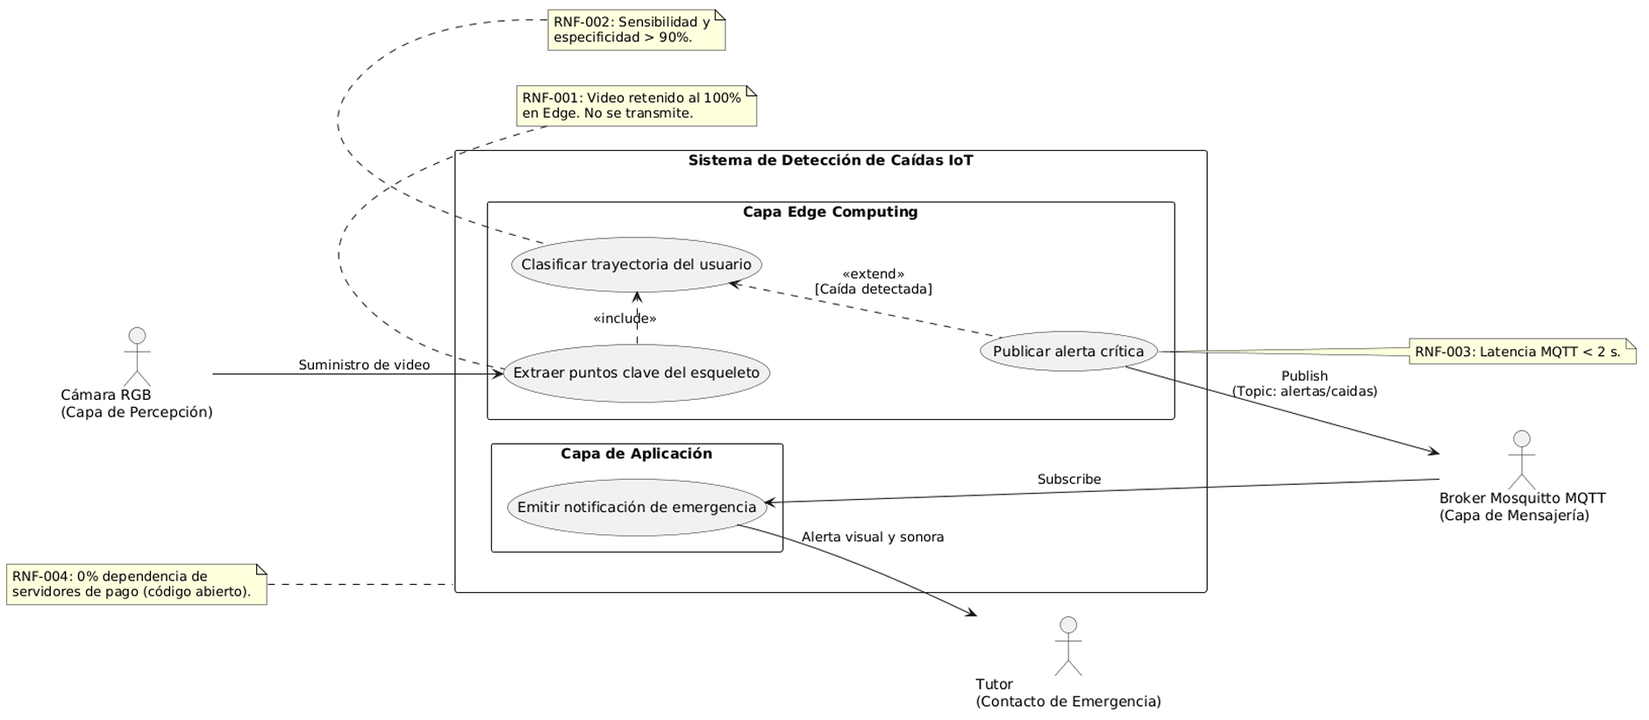
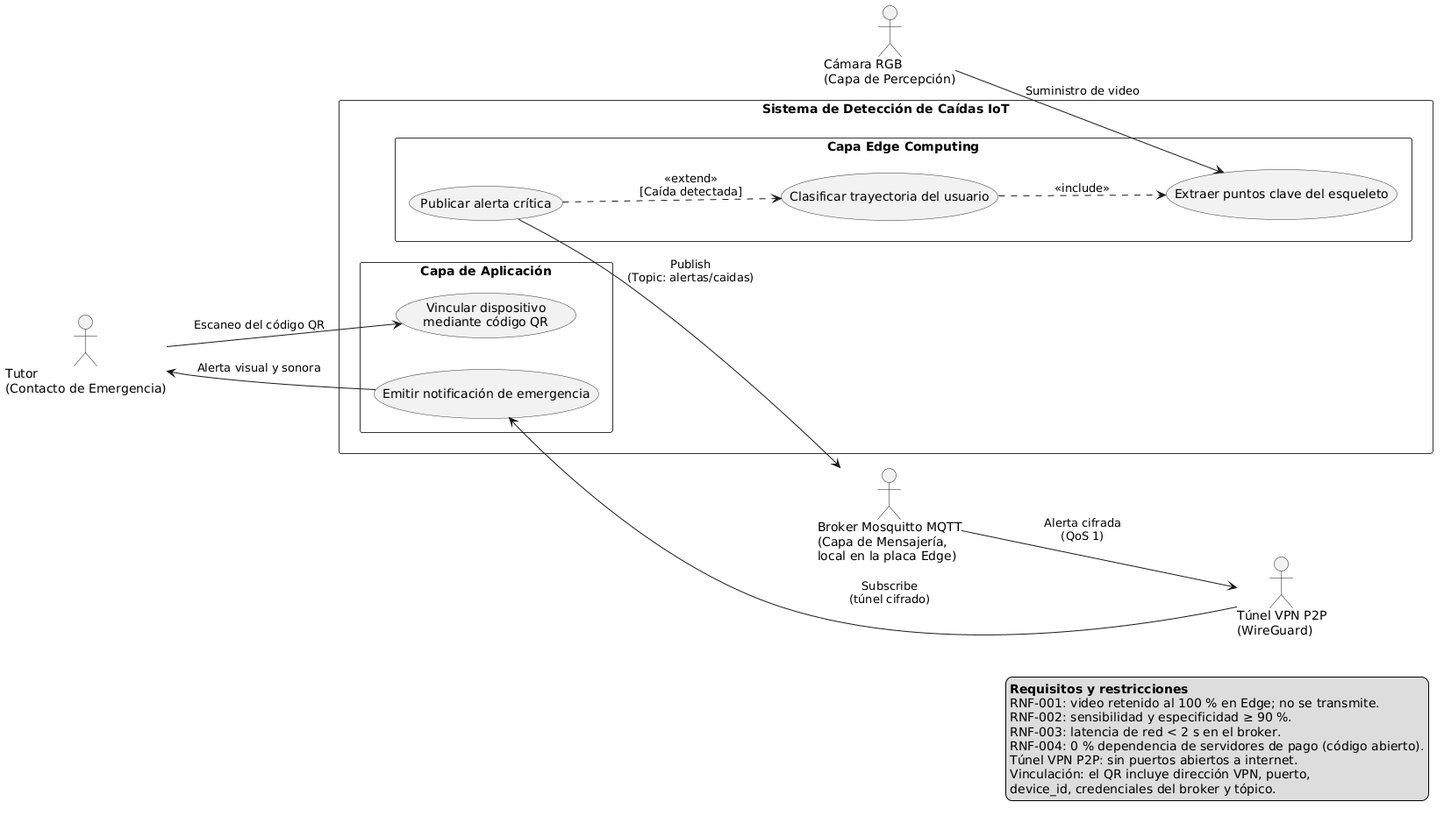
Actualiza arquitectura IoT a VPN P2P, vinculación por QR y hardware
- Sustituye la restricción de LAN por una VPN P2P basada en WireGuard
  (secciones 1.5.2 y 4.1) y actualiza el diagrama de arquitectura.
- Documenta la topología de red y el acceso remoto al broker local.
- Reemplaza el registro con correo y contraseña por la vinculación
  mediante código QR (sección 4.6.1) y actualiza los mockups.
- Elimina el redimensionamiento redundante de OpenCV (sección 4.3).
- Corrige el Cortex-A72 de la Raspberry Pi 4, el precio de 249 USD de la
  Jetson Orin Nano Super, el descarte de la Coral por compatibilidad de
  operaciones y la fuente de 27 W de la Raspberry Pi 5.
- Unifica la notación de RNF-002 (≥ 90 %) y del intervalo temporal (≤ Δt).
- Actualiza el diagrama de casos de uso y agrega la referencia de
  WireGuard; registra el servidor MCP de Figma en opencode.json.

diff --git a/main.tex b/main.tex
@@ -314,7 +314,7 @@ Desarrollar un prototipo de sistema inteligente para la detección de caídas en
   \item \textbf{Caídas simuladas.} Por razones éticas no se registrarán caídas reales de adultos mayores; el entrenamiento y la evaluación se basan en caídas simuladas por voluntarios, por lo que el desempeño en condiciones reales puede ser menor \citep{igual2013challenges}.
   \item \textbf{Sin validación clínica.} El prototipo no se probará con adultos mayores ni en entornos hospitalarios, y no sustituye a un dispositivo médico certificado.
   \item \textbf{Sin contacto automático con servicios de emergencia.} El sistema notifica únicamente al tutor; la decisión de solicitar ayuda médica queda en manos de este.
-  \item \textbf{Conectividad.} El envío de la alerta requiere que la placa y el teléfono del tutor tengan conexión de red LAN.
+  \item \textbf{Conectividad.} Cuando el tutor se encuentra fuera del domicilio, el envío de la alerta requiere que tanto la placa Edge como el teléfono mantengan conexión a internet para establecer el túnel VPN punto a punto que los une (Sección~\ref{sec:arquitectura-iot}); si el túnel no está disponible, la notificación no llega al tutor hasta que se restablezca.
   \item \textbf{Plataforma móvil.} La aplicación se desarrollará solo para Android.
   \item \textbf{Sin almacenamiento de video.} Para proteger la privacidad no se guardan imágenes, por lo que el sistema no ofrece evidencia visual del evento.
   \item \textbf{Sin integración con cámaras del tutor.} El prototipo no accede, controla ni recibe imágenes de cámaras particulares; si el tutor instala las suyas, su uso es independiente del sistema (Sección~\ref{sec:etica}).
@@ -426,7 +426,7 @@ El trabajo se guía por los principios de la Declaración Universal sobre Bioét
 
 La imagen de una persona identificable es un dato personal y adquiere el carácter de dato personal sensible cuando revela aspectos de su estado de salud, como ocurre con la imagen de una persona tendida en el suelo después de una caída \parencite{lfpdppp2025}. Para esos datos la ley exige el consentimiento expreso y por escrito de la persona titular, así como un aviso de privacidad que describa las finalidades, los datos tratados y los mecanismos para ejercer los derechos de acceso, rectificación, cancelación y oposición; además, el responsable queda sujeto al deber de confidencialidad \parencite{lfpdppp2025}.
 
-A partir de esa calificación se aplicó el principio de proporcionalidad: si la finalidad del sistema es avisar que una persona cayó, basta con transmitir el evento y sus metadatos, y no la imagen que lo originó. La carga útil descrita en el Listado~\ref{lst:json_alerta} se compone del identificador del dispositivo, el tipo de evento, la marca de tiempo, el nivel de confianza del clasificador, la postura detectada y el tiempo de inactividad; ninguno de esos campos permite reconstruir la escena. Aun así, se tratan como datos personales: circulan solo en la red local, no se comparten con terceros y la bitácora de la aplicación conserva únicamente el registro del evento, sin imágenes, para el análisis de falsas alarmas de la fase 6 de CRISP-ML(Q).
+A partir de esa calificación se aplicó el principio de proporcionalidad: si la finalidad del sistema es avisar que una persona cayó, basta con transmitir el evento y sus metadatos, y no la imagen que lo originó. La carga útil descrita en el Listado~\ref{lst:json_alerta} se compone del identificador del dispositivo, el tipo de evento, la marca de tiempo, el nivel de confianza del clasificador, la postura detectada y el tiempo de inactividad; ninguno de esos campos permite reconstruir la escena. Aun así, se tratan como datos personales: circulan solo a través del túnel cifrado que une la placa Edge con el teléfono del tutor, no se comparten con terceros y la bitácora de la aplicación conserva únicamente el registro del evento, sin imágenes, para el análisis de falsas alarmas de la fase 6 de CRISP-ML(Q).
 
 \subsection{Garantías técnicas de privacidad}
 
@@ -438,7 +438,7 @@ La aplicación móvil se concibe como un apoyo suplementario para el cuidado y n
 
 \subsection{Consentimiento informado y ética de la investigación}
 
-La instalación del sistema requiere el consentimiento informado de la persona adulta mayor y del tutor, quienes deben conocer que se colocará una cámara en la vivienda, que el video se procesa y se descarta en el dispositivo, qué datos se transmiten al teléfono y cómo revocar la autorización. La aplicación presenta ese aviso en el registro de la cuenta (Figura~\ref{fig:mockup1}) y condiciona la vinculación del dispositivo a su aceptación. En el plano de la investigación no se registran caídas reales de adultos mayores: el entrenamiento y la validación emplean conjuntos públicos y caídas simuladas por voluntarios que otorgan su consentimiento, de modo que el prototipo no se prueba con pacientes ni en entornos hospitalarios y no emite diagnósticos (Sección~\ref{sec:alcances}). A diferencia de lo que ocurre durante la operación del prototipo, estas grabaciones sí se almacenan: se conservan cifradas, solo el equipo tiene acceso a ellas, se utilizan exclusivamente para este trabajo y se eliminan al concluirlo.
+La instalación del sistema requiere el consentimiento informado de la persona adulta mayor y del tutor, quienes deben conocer que se colocará una cámara en la vivienda, que el video se procesa y se descarta en el dispositivo, qué datos se transmiten al teléfono y cómo revocar la autorización. La aplicación presenta ese aviso durante la vinculación local del dispositivo (Figura~\ref{fig:mockup1}) y condiciona el escaneo del código QR a su aceptación. En el plano de la investigación no se registran caídas reales de adultos mayores: el entrenamiento y la validación emplean conjuntos públicos y caídas simuladas por voluntarios que otorgan su consentimiento, de modo que el prototipo no se prueba con pacientes ni en entornos hospitalarios y no emite diagnósticos (Sección~\ref{sec:alcances}). A diferencia de lo que ocurre durante la operación del prototipo, estas grabaciones sí se almacenan: se conservan cifradas, solo el equipo tiene acceso a ellas, se utilizan exclusivamente para este trabajo y se eliminan al concluirlo.
 
 % ============================================================
 \chapter{Marco teórico}
@@ -482,7 +482,7 @@ Existen dos enfoques generales. Los métodos \textit{bottom-up}, como OpenPose \
 
 La Organización Mundial de la Salud define las caídas como ``sucesos involuntarios que hacen perder el equilibrio y dar con el cuerpo en el suelo o en otra superficie firme que lo detenga'' \parencite{who2021caidas}; en el mismo sentido, los informes sobre prevención en la vejez describen la caída como el hecho de quedar sobre el suelo o en un nivel inferior de manera no intencional \parencite{who2008falls}. De esa definición se desprenden cuatro elementos que cualquier sistema de detección debe respetar: la pérdida de equilibrio, el carácter involuntario del suceso, el descenso a un nivel inferior y el contacto final con una superficie que detiene el cuerpo.
 
-La definición clínica describe el fenómeno, pero no indica cómo reconocerlo a partir de una cámara. Para el sistema, una caída no es una postura sino una transición: lo observable es que la persona pasa de una posición erguida a una posición en el suelo y que permanece ahí. Por ello se adopta una definición operativa: se considera que ocurrió una caída cuando la persona pasa de la postura \textit{de pie} o \textit{sentado} a la postura \textit{caído} en un intervalo menor a $\Delta t$ y permanece en ella al menos $N$ segundos, conforme a la regla temporal que se detalla en la Sección~\ref{sec:preproc-operacion}. Ambos parámetros se ajustan con datos experimentales y distinguen una caída de un descenso gradual.
+La definición clínica describe el fenómeno, pero no indica cómo reconocerlo a partir de una cámara. Para el sistema, una caída no es una postura sino una transición: lo observable es que la persona pasa de una posición erguida a una posición en el suelo y que permanece ahí. Por ello se adopta una definición operativa: se considera que ocurrió una caída cuando la persona pasa de la postura \textit{de pie} o \textit{sentado} a la postura \textit{caído} en un intervalo $\leq \Delta t$ y permanece en ella al menos $N$ segundos, conforme a la regla temporal que se detalla en la Sección~\ref{sec:preproc-operacion}. Ambos parámetros se ajustan con datos experimentales y distinguen una caída de un descenso gradual.
 
 \paragraph{Postura caído y postura acostado.} La postura \textit{caído} corresponde al cuerpo apoyado sobre el suelo o sobre un nivel inferior, con el tronco horizontal o inclinado respecto de la vertical. Su geometría es muy parecida a la de la postura \textit{acostado}, que es voluntaria y ocurre por lo general sobre una cama o un sofá. Esa similitud es la principal fuente de falsos positivos señalada en la literatura \parencite{nahian2026ai} y la razón por la que la clasificación por cuadro se complementa con el análisis de la secuencia y con la persistencia en el tiempo, en lugar de decidir con un solo esqueleto.
 
@@ -614,7 +614,7 @@ Con base en las características de calidad del producto definidas en el estánd
 \midrule
 RNF-001 & Privacidad & El subsistema de procesamiento local deberá retener el 100\,\% del flujo de imágenes en el dispositivo Edge para salvaguardar la privacidad en el hogar unipersonal. \\
 \addlinespace
-RNF-002 & Eficacia & El modelo de clasificación deberá alcanzar un rendimiento superior al 90\,\% en métricas de sensibilidad y especificidad para minimizar el impacto de falsas alarmas. \\
+RNF-002 & Eficacia & El modelo de clasificación deberá alcanzar una sensibilidad y una especificidad $\geq 90\,\%$ para minimizar el impacto de falsas alarmas. \\
 \addlinespace
 RNF-003 & Latencia & El broker MQTT deberá entregar los mensajes de alerta con menos de 2 segundos de latencia de red para asegurar la pronta atención ante accidentes. \\
 \addlinespace
@@ -753,8 +753,8 @@ Para dar solución a los requerimientos de protección de datos personales, el s
 \begin{enumerate}
     \item \textbf{Capa de Percepción:} Integrada por un nodo sensor visual (cámara RGB) conectado de manera cableada al dispositivo local, asegurando un suministro de imágenes ininterrumpido y exento de latencias de transmisión sobre red de área local (LAN).
     \item \textbf{Capa de Cómputo Edge:} Compuesta por una Raspberry Pi 5 que actúa como placa Edge perimetral, donde reside el módulo de inferencia de YOLO26. Esta capa delimita la "zona cero" de privacidad: procesa cada tensor visual, extrae la pose y destruye de inmediato las imágenes crudas directamente en memoria, impidiendo que material visual privado abandone el dispositivo.
-    \item \textbf{Capa de Mensajería:} Representada por el servidor ligero Mosquitto MQTT \parencite{mqtt2026estandar}. Esta capa aísla la carga pesada (la imagen) de la carga liviana (el metadato de alerta) y rutea los mensajes JSON hacia LAN de forma instantánea tras clasificar exitosamente un riesgo de caída.
-    \item \textbf{Capa de Aplicación:} Compuesta por un terminal móvil inteligente dotado de la aplicación nativa en Android \parencite{uv2026desarrollo}, el cual consume remotamente (bajo redes de área amplia o LAN) el tópico MQTT, habilitando al usuario final en tiempo real.
+    \item \textbf{Capa de Mensajería:} Representada por el servidor ligero Mosquitto MQTT \parencite{mqtt2026estandar}, que se ejecuta en la propia placa Edge. Esta capa aísla la carga pesada (la imagen) de la carga liviana (el metadato de alerta) y rutea los mensajes JSON hacia el túnel VPN punto a punto de forma instantánea tras clasificar exitosamente un riesgo de caída.
+    \item \textbf{Capa de Aplicación:} Compuesta por un terminal móvil inteligente dotado de la aplicación nativa en Android \parencite{uv2026desarrollo}, el cual se suscribe al tópico MQTT a través del túnel VPN punto a punto, sin importar si el tutor se encuentra dentro o fuera del domicilio, habilitando al usuario final en tiempo real.
 \end{enumerate}
 \begin{figure}[H]
 \centering
@@ -764,6 +764,7 @@ Para dar solución a los requerimientos de protección de datos personales, el s
     percep/.style={rectangle, draw=black, thick, rounded corners=3pt, minimum width=3.6cm, minimum height=1.2cm, align=center, fill=blue!10},
     edgebox/.style={rectangle, draw=black, thick, rounded corners=3pt, minimum width=3.6cm, minimum height=1.2cm, align=center, fill=teal!10},
     broker/.style={ellipse, draw=black, thick, minimum width=4.8cm, minimum height=1.5cm, align=center, fill=gray!15},
+    vpnbox/.style={rectangle, draw=black, thick, rounded corners=3pt, minimum width=4.4cm, minimum height=1.1cm, align=center, fill=violet!10},
     appbox/.style={rectangle, draw=black, thick, rounded corners=3pt, minimum width=3.6cm, minimum height=1.2cm, align=center, fill=orange!10},
     arrow/.style={-{Stealth[length=2.5mm]}, thick, draw=black!80}
 ]
@@ -771,11 +772,12 @@ Para dar solución a los requerimientos de protección de datos personales, el s
 % Nodos
 \node[percep] (cam) {\textbf{Capa de Percepción}\\Cámara RGB};
 \node[edgebox, right=3.5cm of cam] (edge) {\textbf{Capa Edge Computing}\\Raspberry Pi 5\\(Docker)\\Inferencia YOLO26};
-\node[broker, below=1.8cm of edge] (broker) {\textbf{Capa de Mensajería}\\Broker Mosquitto MQTT};
-\node[appbox, below=1.8cm of cam] (app) {\textbf{Capa de Aplicación}\\App Móvil Android};
+\node[broker, below=1.6cm of edge] (broker) {\textbf{Capa de Mensajería}\\Broker Mosquitto MQTT\\local en la placa Edge};
+\node[vpnbox, below=1.6cm of cam] (vpn) {\textbf{Túnel VPN P2P (WireGuard)}\\Tráfico cifrado, sin puertos\\expuestos a internet};
+\node[appbox, below=1.2cm of vpn] (app) {\textbf{Capa de Aplicación}\\App Móvil Android\\del tutor};
 
 % Límite de privacidad (Recuadro rojo punteado)
-\node[draw=red, dashed, thick, inner sep=12pt, fit=(edge),
+\node[draw=red, dashed, thick, inner sep=12pt, fit=(edge)(broker),
       label={[text=red, font=\bfseries\footnotesize, align=center]above:Límite de Privacidad\\(Procesamiento local, no se almacena video)}] (privacy) {};
 
 % Flechas y etiquetas
@@ -784,13 +786,23 @@ Para dar solución a los requerimientos de protección de datos personales, el s
 % La flecha hacia abajo lleva texto a la derecha
 \draw[arrow] (edge) -- node[right, font=\footnotesize, align=center] {Publish: JSON\\(Topic: alertas/caidas)} (broker);
 
-% La flecha hacia la izquierda lleva texto arriba
-\draw[arrow] (broker) -- node[above, font=\footnotesize, align=center] {Subscribe\\(Wi-Fi)} (app);
+% La alerta sale del domicilio únicamente por el túnel cifrado
+\draw[arrow] (broker) -- node[above, font=\footnotesize, align=center] {Subscribe\\(VPN)} (vpn);
+\draw[arrow] (vpn) -- node[right, font=\footnotesize, align=center] {Alerta cifrada\\(QoS 1)} (app);
 
 \end{tikzpicture}
-\caption{Diagrama de la arquitectura IoT.}
+\caption{Diagrama de la arquitectura IoT con acceso remoto mediante VPN punto a punto.}
 \label{fig:arquitectura_iot}
 \end{figure}
+
+\subsection{Topología de red y acceso remoto mediante VPN punto a punto}
+\label{sec:topologia-red}
+
+El caso de uso exige que el tutor reciba la alerta de emergencia aunque se encuentre fuera del domicilio, de modo que restringir el flujo de datos a la red de área local (LAN) contradice el objetivo del sistema. Al mismo tiempo, el requisito RNF-004 descarta los servidores en la nube por su costo. La solución adoptada es una red privada virtual (VPN) punto a punto basada en WireGuard \parencite{donenfeld2017wireguard}, que establece un túnel cifrado entre la placa Edge y el teléfono del tutor sobre la conexión a internet de la vivienda y no requiere contratar infraestructura de terceros.
+
+En esta topología, el \textit{broker} Mosquitto se ejecuta en la placa Edge y acepta conexiones únicamente por la interfaz del túnel; la aplicación móvil se suscribe al tópico de alertas a través de la misma interfaz. Así, el tráfico queda cifrado de extremo a extremo, no se abre ningún puerto en el módem de la vivienda y no se publica la dirección IP del nodo en internet. Las claves de cada extremo se generan durante la configuración inicial y se intercambian en el momento de la vinculación (Sección~\ref{sec:mockups-app}), por lo que el acceso al \textit{broker} queda limitado a los dispositivos que el tutor haya registrado. La coordinación de las claves puede delegarse en un servicio gratuito o resolverse con un nodo de coordinación propio de código abierto, de manera que la solución no introduce dependencia de servidores de pago y conserva el cumplimiento de RNF-004.
+
+El túnel añade un sobrecosto de latencia que se medirá en la fase 4 de CRISP-ML(Q) contra el requisito RNF-003 y el criterio CE-06. Cuando el tutor se encuentra dentro del domicilio, ambos extremos siguen comunicándose por la LAN, de modo que la operación local no depende de la VPN; cuando está fuera, el túnel es la única vía de entrega de la alerta, lo que se declara como limitación en la Sección~\ref{sec:alcances}.
 
 \subsection{Estructura de tópicos MQTT y formato de mensajes}
 La comunicación entre la Raspberry Pi 5 y la aplicación móvil se gestiona a través del \textit{broker} de código abierto \textbf{Eclipse Mosquitto} operando con nivel de calidad de servicio \textbf{QoS 1} (\textit{at least once}), lo que garantiza la recepción del mensaje de emergencia sin exceder el límite de latencia de red de 2 segundos (\textbf{RNF-003}). Se define la siguiente estructura de tópicos:
@@ -881,11 +893,11 @@ La arquitectura de la Figura~\ref{fig:arquitectura_iot} reserva una capa de cóm
 \midrule
 Raspberry Pi 5 (8~GB) & 4 Cortex-A76 a 2,4~GHz; GPU VideoCore VII & Ninguno; Hailo-8L opcional por PCIe & 8~GB & 110--140 & Seleccionada \\
 \addlinespace
-Raspberry Pi 4 (4~GB) & 4 Cortex-A53 a 1,8~GHz; GPU VideoCore VI & Ninguno & 4~GB & 70--90 & Descartada: menor desempeño \\
+Raspberry Pi 4 (4~GB) & 4 Cortex-A72 a 1,5~GHz; GPU VideoCore VI & Ninguno & 4~GB & 70--90 & Descartada: menor desempeño \\
 \addlinespace
-Jetson Orin Nano Super & 6 Cortex-A78AE; GPU Ampere & GPU, hasta 67 TOPS & 8~GB & $\approx$ 400 & Descartada: costo y consumo \\
+Jetson Orin Nano Super & 6 Cortex-A78AE; GPU Ampere & GPU, hasta 67 TOPS & 8~GB & 249 & Descartada: costo y consumo \\
 \addlinespace
-Coral Dev Board & 4 Cortex-A53 a 1,5~GHz & Edge TPU, 4 TOPS & 1~GB & 120--150 & Descartada: memoria y suministro \\
+Coral Dev Board & 4 Cortex-A53 a 1,5~GHz & Edge TPU, 4 TOPS & 1--4~GB & 120--150 & Descartada: compatibilidad de operaciones \\
 \addlinespace
 Orange Pi 5 (8~GB) & 4 Cortex-A76 y 4 Cortex-A55; GPU Mali-G610 & NPU, 6 TOPS & 8~GB & 85--110 & Descartada: soporte del NPU \\
 \bottomrule
@@ -894,9 +906,9 @@ Orange Pi 5 (8~GB) & 4 Cortex-A76 y 4 Cortex-A55; GPU Mali-G610 & NPU, 6 TOPS & 
 
 Los datos técnicos de la Tabla~\ref{tab:comparativa-placas} provienen de las hojas de datos y de los sitios oficiales de cada fabricante \parencite{raspberrypi2026pi5,raspberrypi2026pi4,nvidia2026jetson,coral2026devboard,orangepi2026pi5}. Los costos son estimaciones a partir de los precios de lista de cada fabricante y de los ajustes de precio anunciados durante 2026, por lo que se emplean solo como orden de magnitud \parencite{raspberrypi2026precios}.
 
-\paragraph{Raspberry Pi 5.} Se adopta la variante con 8~GB de memoria, que integra un procesador Broadcom BCM2712 de cuatro núcleos Arm Cortex-A76 a 2,4~GHz, memoria LPDDR4X, una GPU VideoCore VII, un puerto PCIe 2.0, dos conectores MIPI para cámara y pantalla, Ethernet Gigabit, Wi-Fi de doble banda, Bluetooth 5.0 y 40 pines de propósito general \parencite{raspberrypi2026pi5}. La placa no incluye una unidad de procesamiento neuronal, de modo que la inferencia se ejecuta en la CPU; esto es viable porque YOLO26 se diseñó para dispositivos de borde y puede exportarse a ONNX, TensorRT, TFLite o OpenVINO con cuantización de 8 bits \parencite{sapkota2025yolo26}. Si en la fase 3 de CRISP-ML(Q) la tasa de procesamiento no alcanza el criterio CE-05, el mismo puerto PCIe permite añadir un acelerador Hailo-8L de 13 TOPS sin cambiar de plataforma \parencite{raspberrypi2026aihat}. La variante de 8~GB se prefiere sobre las de 2 y 4~GB para dejar margen al sistema operativo, al contenedor de Docker, a OpenCV y al cliente MQTT, en cumplimiento del requisito RNF-IA-03, y se alimenta con una fuente USB-C de 5~V y 5~A (25~W) que cubre el consumo de la cámara y de la interfaz de red.
+\paragraph{Raspberry Pi 5.} Se adopta la variante con 8~GB de memoria, que integra un procesador Broadcom BCM2712 de cuatro núcleos Arm Cortex-A76 a 2,4~GHz, memoria LPDDR4X, una GPU VideoCore VII, un puerto PCIe 2.0, dos conectores MIPI para cámara y pantalla, Ethernet Gigabit, Wi-Fi de doble banda, Bluetooth 5.0 y 40 pines de propósito general \parencite{raspberrypi2026pi5}. La placa no incluye una unidad de procesamiento neuronal, de modo que la inferencia se ejecuta en la CPU; esto es viable porque YOLO26 se diseñó para dispositivos de borde y puede exportarse a ONNX, TensorRT, TFLite o OpenVINO con cuantización de 8 bits \parencite{sapkota2025yolo26}. Si en la fase 3 de CRISP-ML(Q) la tasa de procesamiento no alcanza el criterio CE-05, el mismo puerto PCIe permite añadir un acelerador Hailo-8L de 13 TOPS sin cambiar de plataforma \parencite{raspberrypi2026aihat}. La variante de 8~GB se prefiere sobre las de 2 y 4~GB para dejar margen al sistema operativo, al contenedor de Docker, a OpenCV y al cliente MQTT, en cumplimiento del requisito RNF-IA-03, y se alimenta con la fuente oficial USB-C de 5,1~V y 5~A (27~W) que cubre el consumo de la cámara y de la interfaz de red.
 
-\paragraph{Alternativas descartadas.} La Raspberry Pi 4 tiene un costo menor, pero su procesador Cortex-A53 de cuatro núcleos a 1,8~GHz es de una generación anterior, carece de PCIe y no ofrece una ruta de ampliación si el modelo no alcanza la tasa requerida \parencite{raspberrypi2026pi4}; la diferencia de precio no compensa el menor desempeño. La Jetson Orin Nano Super es la opción más potente del conjunto, con hasta 67 TOPS en su GPU Ampere y 8~GB de memoria LPDDR5 \parencite{nvidia2026jetson}, pero cuesta alrededor del triple, consume hasta 25~W y su capacidad excede lo que necesita un modelo compacto que solo debe procesar entre 5 y 7 cuadros por segundo. La Coral Dev Board integra una Edge TPU de 4 TOPS con bajo consumo, pero limita la placa a 1~GB de memoria y exige convertir el modelo por completo a TFLite con cuantización entera, además de que su suministro y soporte se han reducido \parencite{coral2026devboard}. Por último, la Orange Pi 5 ofrece un procesador RK3588S con una NPU de 6 TOPS y un precio menor, pero su acelerador requiere la cadena de herramientas RKNN y su documentación y comunidad son más reducidas, lo que añade riesgo técnico a un proyecto con calendario fijo \parencite{orangepi2026pi5}.
+\paragraph{Alternativas descartadas.} La Raspberry Pi 4 tiene un costo menor, pero su procesador Cortex-A72 de cuatro núcleos a 1,5~GHz es de una generación anterior al Cortex-A76 de la Raspberry Pi 5, carece de PCIe y no ofrece una ruta de ampliación si el modelo no alcanza la tasa requerida \parencite{raspberrypi2026pi4}; la diferencia de precio no compensa el menor desempeño. La Jetson Orin Nano Super es la opción más potente del conjunto, con hasta 67 TOPS en su GPU Ampere y 8~GB de memoria LPDDR5 \parencite{nvidia2026jetson}, pero cuesta 249~USD, alrededor del doble de la Raspberry Pi 5 de 8~GB, consume hasta 25~W y su capacidad excede lo que necesita un modelo compacto que solo debe procesar entre 5 y 7 cuadros por segundo. La Coral Dev Board integra una Edge TPU de 4 TOPS con bajo consumo y está disponible también en una variante de 4~GB de memoria, por lo que la capacidad de memoria no es el motivo de su descarte; el obstáculo es la compatibilidad de operaciones, ya que la Edge TPU solo ejecuta modelos TFLite cuantizados por completo a enteros de 8 bits y no admite todas las operaciones de las redes de detección y estimación de pose, de modo que las capas no soportadas deben volver a implementarse o ejecutarse en la CPU, lo que anula la ventaja del acelerador \parencite{coral2026devboard}. A ello se suma que su suministro y soporte se han reducido. Por último, la Orange Pi 5 ofrece un procesador RK3588S con una NPU de 6 TOPS y un precio menor, pero su acelerador requiere la cadena de herramientas RKNN y su documentación y comunidad son más reducidas, lo que añade riesgo técnico a un proyecto con calendario fijo \parencite{orangepi2026pi5}.
 
 \paragraph{Decisión.} Por lo anterior, la Raspberry Pi 5 de 8~GB se adopta como placa Edge del prototipo. La decisión no altera la arquitectura definida en la Sección~\ref{sec:arquitectura-iot}: la placa conserva el papel de capa de cómputo local, mantiene el procesamiento y el descarte de las imágenes dentro de la vivienda (RNF-001) y actúa como cliente publicador del \textit{broker} Mosquitto. El cumplimiento de los criterios CE-05 y CE-06 se verificará con mediciones sobre este hardware en la fase 3 de CRISP-ML(Q) y, si no se alcanza, se recurrirá al acelerador mencionado antes de considerar un cambio de plataforma.
 
@@ -906,7 +918,7 @@ Los datos técnicos de la Tabla~\ref{tab:comparativa-placas} provienen de las ho
 El flujo de adquisición de video parametriza la captura óptica en la Raspberry Pi 5 para suministrar cuadros de forma continua al módulo de inteligencia artificial, evitando cuellos de botella en la memoria y el procesador. Los parámetros de operación se definieron en conjunto con los requisitos del extractor de pose (\textbf{RF-IA-01}) y la estrategia de preprocesamiento en operación (Sección~\ref{sec:preproc-operacion}):
 
 \begin{itemize}
-    \item \textbf{Interfaz de captura y resolución de entrada:} La cámara RGB se conecta localmente mediante interfaz cableada (USB 2.0 / CSI) a la Raspberry Pi 5. La captura nativa se configura a una resolución base de $640 \times 480$ píxeles (relación de aspecto 4:3) y se redimensiona en memoria mediante OpenCV para que el lado mayor sea de $640\text{ píxeles}$, coincidiendo con la dimensión de entrada del modelo \texttt{YOLO26-pose}.
+    \item \textbf{Interfaz de captura y resolución de entrada:} La cámara RGB se conecta localmente mediante interfaz cableada (USB 2.0 / CSI) a la Raspberry Pi 5. La captura nativa se configura a una resolución de $640 \times 480$ píxeles (relación de aspecto 4:3), de modo que el lado mayor coincide con la dimensión de entrada del modelo \texttt{YOLO26-pose}; por ello el cuadro se entrega al modelo sin ningún redimensionamiento posterior y la etapa de acondicionamiento se limita a la conversión de espacio de color.
     \item \textbf{Tasa de cuadros por segundo (FPS):} El flujo de adquisición se regula a una tasa de captura sostenida de $5$ a $7\text{ FPS}$, garantizando una frecuencia de procesamiento en la placa superior al umbral mínimo establecido en los criterios de éxito (\textbf{CE-05}: $\geq 5\text{ FPS}$). Esta frecuencia temporal permite capturar con suficiente granularidad el descenso rápido del cuerpo durante una caída (intervalo $\Delta t \leq 2\text{ s}$) sin saturar la cola de lectura.
     \item \textbf{Formato de los cuadros en memoria (acuerdo con el módulo de IA):} La biblioteca OpenCV decodifica cada cuadro de la cámara como un arreglo matricial tridimensional de 8 bits por canal ($\texttt{uint8}$, con valores de intensidad entre $0$ y $255$) en orden de canales \texttt{BGR}. Antes de entregarse al modelo de estimación de pose, el arreglo se transforma en memoria RAM al espacio de color \texttt{RGB} con dimensiones $H \times W \times 3$.
     \item \textbf{Gestión de memoria volátil y privacidad:} En cumplimiento con los requisitos \textbf{RNF-001} y \textbf{RNF-IA-04}, no se realiza escritura de archivos de imagen ni de video en almacenamiento secundario. Se utiliza un búfer de lectura de un solo cuadro (\textit{single-frame buffer}) para descartar cuadros rezagados y procesar únicamente el instante actual; una vez extraídos los 17 puntos clave del esqueleto, el tensor de imagen se sobrescribe de inmediato en la memoria RAM.
@@ -931,7 +943,7 @@ La Figura~\ref{fig:flujo_adquisicion} ilustra la tubería de datos desde el sens
 
 \node[edgeblock, right=of cam] (opencv) {\textbf{Adquisición en Placa Edge}\\Lectura con OpenCV (RAM)\\Búfer de 1 cuadro (\texttt{uint8})\\Matriz \texttt{BGR} ($H \times W \times 3$)};
 
-\node[edgeblock, below=of opencv] (preproc) {\textbf{Acondicionamiento de Formato}\\Conversión \texttt{BGR} $\rightarrow$ \texttt{RGB}\\Redimensionado a $640\text{ px}$\\Entrega en memoria (\textbf{RF-IA-01})};
+\node[edgeblock, below=of opencv] (preproc) {\textbf{Acondicionamiento de Formato}\\Conversión \texttt{BGR} $\rightarrow$ \texttt{RGB}\\Resolución nativa $640 \times 480$ px\\Entrega en memoria (\textbf{RF-IA-01})};
 
 \node[aiblock, left=of preproc] (yolo) {\textbf{Modelo YOLO26-pose}\\Inferencia en el borde\\Salida: 17 keypoints $(x, y, c)$\\en formato COCO (\textbf{RF-IA-02})};
 
@@ -1036,13 +1048,13 @@ Durante el funcionamiento del prototipo, cada cuadro de la cámara sigue el mism
  
 \begin{enumerate}
   \item La cámara entrega cuadros a la tasa definida en el flujo de adquisición, con un mínimo de 5 cuadros por segundo (criterio CE-05).
-  \item Cada cuadro se convierte a RGB y se redimensiona al tamaño de entrada de YOLO26-pose (640 píxeles en el lado mayor).
+  \item Cada cuadro se convierte a RGB y se entrega al modelo en la resolución de captura, que ya corresponde al tamaño de entrada de YOLO26-pose (640 píxeles en el lado mayor), sin redimensionamiento adicional.
   \item Se estiman los puntos clave, se filtran por confianza, se trasladan y escalan, y se calcula el mismo vector de características que en el entrenamiento.
   \item El clasificador asigna una postura al cuadro. Para evitar cambios bruscos por errores aislados, se toma la postura mayoritaria en una ventana corta de cuadros.
   \item La postura se agrega a un historial de los últimos segundos, sobre el cual se aplica la regla temporal.
 \end{enumerate}
  
-\paragraph{Regla temporal.} Conforme a la definición operativa de la Sección~\ref{sec:definicion-caida}, se considera que ocurrió una caída cuando se cumplen dos condiciones: (1) la persona pasa de \textit{de pie} o \textit{sentado} a \textit{caído} en un intervalo menor a $\Delta t$, y (2) permanece en la postura \textit{caído} durante al menos $N$ segundos. La primera condición distingue una caída de una persona que se recuesta poco a poco, y la segunda evita alertas por movimientos momentáneos, como agacharse a recoger un objeto. Como valores iniciales se proponen $\Delta t = 2$~s y $N = 2$~s, compatibles con el tiempo máximo de notificación del criterio CE-06; ambos se ajustarán con las secuencias del grupo de ajuste. Cuando se cumplen las dos condiciones, el módulo entrega el evento de caída al componente de alertas (RF-IA-06).
+\paragraph{Regla temporal.} Conforme a la definición operativa de la Sección~\ref{sec:definicion-caida}, se considera que ocurrió una caída cuando se cumplen dos condiciones: (1) la persona pasa de \textit{de pie} o \textit{sentado} a \textit{caído} en un intervalo $\leq \Delta t$, y (2) permanece en la postura \textit{caído} durante al menos $N$ segundos. La primera condición distingue una caída de una persona que se recuesta poco a poco, y la segunda evita alertas por movimientos momentáneos, como agacharse a recoger un objeto. Como valores iniciales se proponen $\Delta t = 2$~s y $N = 2$~s, compatibles con el tiempo máximo de notificación del criterio CE-06; ambos se ajustarán con las secuencias del grupo de ajuste. Cuando se cumplen las dos condiciones, el módulo entrega el evento de caída al componente de alertas (RF-IA-06).
  
 Ningún cuadro se almacena: cada imagen se descarta en cuanto se extraen sus puntos clave, en congruencia con el requisito de privacidad RNF-IA-04.
 
@@ -1102,28 +1114,30 @@ Ambos candidatos se entrenarán con el mismo conjunto de entrenamiento y se comp
 
 Con el propósito de cerrar el ciclo de notificación hacia el tutor, se diseñaron las interfaces de usuario (\textit{mockups}) de la aplicación móvil nativa para Android. El diseño prioriza una experiencia de usuario clara y de baja carga cognitiva, permitiendo gestionar el dispositivo de borde y reaccionar con rapidez ante una alerta de emergencia (\textbf{RF-005}).
 
-\subsection{Registro del tutor y vinculación del dispositivo Edge}
-El flujo inicial de configuración guía al tutor en tres pasos para dar de alta su cuenta y enlazar el nodo perimetral instalado en la vivienda del adulto mayor (Figura~\ref{fig:mockups_onboarding}):
+\subsection{Vinculación local del dispositivo Edge mediante código QR}
+El flujo inicial de configuración guía al tutor en tres pasos para conocer el aviso de privacidad y enlazar el nodo perimetral instalado en la vivienda del adulto mayor (Figura~\ref{fig:mockups_onboarding}). Como el sistema no cuenta con un servidor centralizado que valide y almacene identidades y el requisito RNF-004 descarta los servicios externos, la vinculación se resuelve de forma local: no se solicita correo electrónico ni contraseña y no se mantiene una base de datos de usuarios.
 
 \begin{enumerate}
-    \item \textbf{Creación de cuenta y aviso de privacidad (Figura~\ref{fig:mockup1}):} Solicita las credenciales del tutor (correo electrónico y contraseña) y presenta de forma explícita el principio de \textit{Privacidad Local} (\textbf{RNF-001}), informando que las imágenes se procesan y permanecen en el dispositivo de cuidado y que únicamente se envían alertas de caída al teléfono móvil.
-    \item \textbf{Descubrimiento y vinculación de hardware (Figura~\ref{fig:mockup2}):} Escanea e identifica los nodos disponibles en el entorno cercano (por ejemplo, los dispositivos \texttt{EG-014} y \texttt{EG-027}) para asociar el identificador único de la placa Edge con la suscripción al tópico MQTT correspondiente.
+    \item \textbf{Aviso de privacidad y consentimiento (Figura~\ref{fig:mockup1}):} Presenta de forma explícita el principio de \textit{Privacidad Local} (\textbf{RNF-001}), informando que las imágenes se procesan y permanecen en el dispositivo de cuidado y que únicamente se envían alertas de caída al teléfono móvil. La aceptación de este aviso es condición para continuar con la vinculación.
+    \item \textbf{Escaneo del código QR del dispositivo (Figura~\ref{fig:mockup2}):} Durante su configuración inicial, la placa Edge genera y muestra un código QR con los parámetros de conexión del nodo: la dirección que le asigna el túnel VPN punto a punto (Sección~\ref{sec:topologia-red}), el puerto del \textit{broker} MQTT local, el identificador del dispositivo (por ejemplo, \texttt{EG-014}), las credenciales de acceso al \textit{broker} y el tópico al que debe suscribirse la aplicación. La aplicación lee el código con la cámara del teléfono y guarda esos parámetros cifrados en el almacenamiento local del dispositivo, con lo que la vinculación queda completa sin intervención de un servidor.
     \item \textbf{Personalización del perfil de cuidado (Figura~\ref{fig:mockup3}):} Permite asignar un nombre identificable al adulto mayor (por ejemplo, \textit{Abuelo José}) y un icono representativo asociado al dispositivo vinculado (\texttt{EG-014}).
 \end{enumerate}
+
+Este esquema sustituye al registro tradicional de cuentas y aporta dos ventajas sobre él: la identidad del tutor no se almacena en ningún servidor y el acceso al \textit{broker} queda restringido a quien haya escaneado el código. Si el código se extravía o las credenciales se comprometen, la placa puede regenerarlas y emitir un código nuevo que invalida el anterior.
 
 \begin{figure}[htbp]
 \centering
 \begin{subfigure}[b]{0.31\textwidth}
     \centering
     \includegraphics[width=\textwidth]{Figuras/mockup1.png}
-    \caption{Registro de cuenta.}
+    \caption{Aviso de privacidad y consentimiento.}
     \label{fig:mockup1}
 \end{subfigure}
 \hfill
 \begin{subfigure}[b]{0.31\textwidth}
     \centering
     \includegraphics[width=\textwidth]{Figuras/mockup_2.png}
-    \caption{Escaneo de nodos Edge.}
+    \caption{Escaneo del código QR.}
     \label{fig:mockup2}
 \end{subfigure}
 \hfill
@@ -1133,7 +1147,7 @@ El flujo inicial de configuración guía al tutor en tres pasos para dar de alta
     \caption{Asignación de perfil.}
     \label{fig:mockup3}
 \end{subfigure}
-\caption{Mockups del flujo de registro y vinculación del dispositivo en la aplicación móvil.}
+\caption{Mockups del flujo de vinculación local del dispositivo en la aplicación móvil.}
 \label{fig:mockups_onboarding}
 \end{figure}
 
